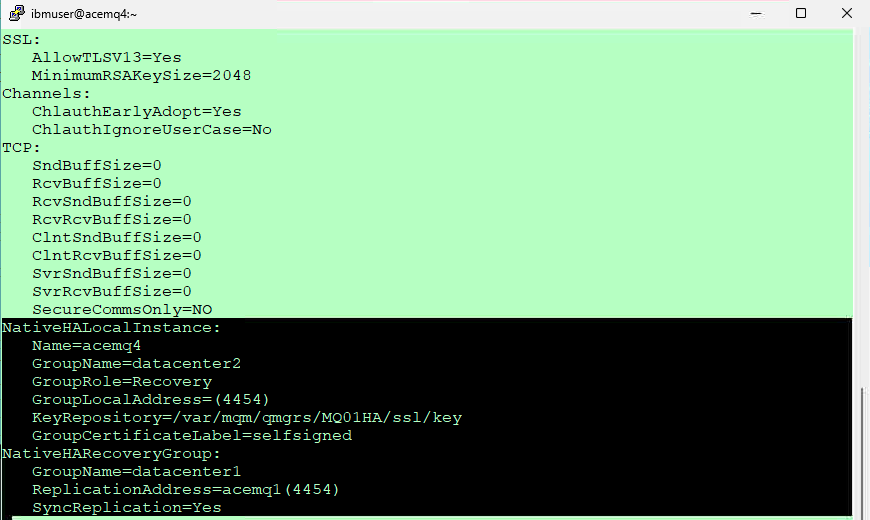
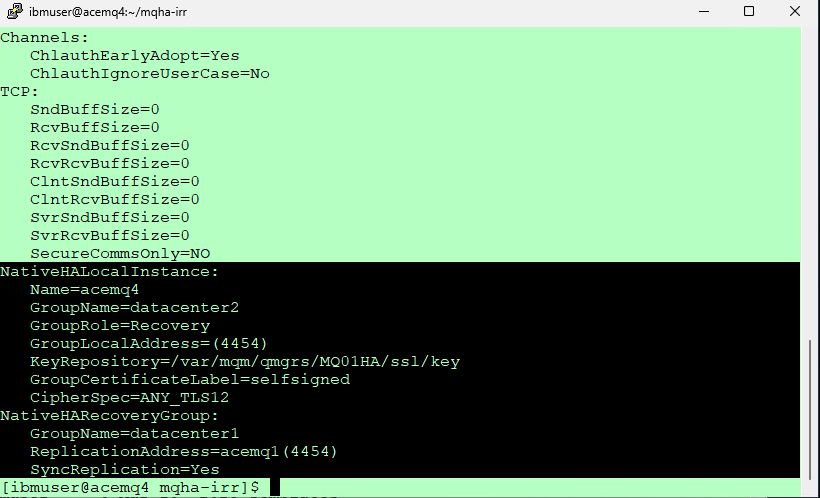
draft 6

Changed region(s): [[0.0, 0.0, 1.0, 1.0], [0.8537, 0.0, 0.8841, 0.0301]]

diff --git a/nativeha-irr-rhel/README.md b/nativeha-irr-rhel/README.md
@@ -95,7 +95,7 @@ Click on the Windows image console to open it.
 
 
 
-### 3c. acemq1 - Create TLS Certificates <a name="tls-setup"></a>
+### 3c. acemq1 - Create TLS Certificates <a name="tls-setup-live"></a>
 
 1. Run the below steps to enable TLS on Queue Manager.  <br>
  
@@ -118,7 +118,7 @@ Click on the Windows image console to open it.
    ![alt text](images/crtmq1a.png)
 
 
-2. acemq1 - Copy all key.* files to acemq4 (Recovery) Virtual Machines using sftp. 
+2. Copy all key.* files to acemq4 (Recovery) Virtual Machines using sftp. 
 
    ```
    sftp ibmuser@acemq4
@@ -133,7 +133,9 @@ Click on the Windows image console to open it.
    ![alt text](images/crtmq1b.png)
 
 
-4. acemq4 - Run the following commands. <br>
+### 3d. acemq4 - Update Certificate Permissions  <a name="tls-setup-recovery"></a>
+
+   Run the following commands. <br>
    ```
    sudo chown -R :mqm /var/mqm/qmgrs/MQ01HA/ssl/key.*
    ```
@@ -144,7 +146,8 @@ Click on the Windows image console to open it.
 
    <br>
 
-### 3c. acemq1 - Update Live qm.ini <a name="update-live-qm-ini"></a>
+
+### 3e. acemq1 - Update Live qm.ini <a name="update-live-qm-ini"></a>
 
 1. On VM acemq1, we will add the TLS parameters, NativeHARecoveryGroup stanza to qm.ini. 
 
@@ -162,15 +165,17 @@ Click on the Windows image console to open it.
    cd ~/mqha-irr
    ```
 
+   Run 1-qm-IRR.sh to enable Native HA IRR on the Live Region. The command will add Native HA configurations to qm.ini file.<br>
+
    ```
-   ./1-qm-ha.sh
+   ./1-qm-IRR.sh
    ```
 
    ![alt text](images/qm1a.png)
 
+   <br>
 
-
-1. When done run the following command on acemq1 instance to verify that the **qm.ini** was updated correctly. 
+1. When done run the following command to verify that the **qm.ini** was updated correctly. 
 
    ```
    cat /var/mqm/qmgrs/MQ01HA/qm.ini
@@ -178,12 +183,14 @@ Click on the Windows image console to open it.
 
    ![alt text](images/qm1b.png)
 
+   <br>
 
 
-### 3d. acemq4 - Update Recovery qm.ini <a name="update-recovery-qm-ini"></a>
+### 3f. acemq4 - Update Recovery qm.ini <a name="update-recovery-qm-ini"></a>
 
-   You can run the following command on **acemq4** to look at the current **qm.ini** file.
+   Run 2-qm-IRR.sh to enable Native HA IRR on the Recovery Region. The command will add Native HA configurations to **qm.ini** file.<br>
 
+   
    ```
    cat /var/mqm/qmgrs/MQ01HA/qm.ini
    ```
@@ -192,9 +199,14 @@ Click on the Windows image console to open it.
    
 1. We will now from the **acemq4** putty session, use vi and add below lines. <br>
 
-```
-./2-qm-IRR.sh
-```
+   ```
+   cd ~/mqha-irr
+   ```
+   
+   ```
+   ./2-qm-IRR.sh
+   ```
+   ![alt text](images/qm2a.png)
 
 
 1. When done run the following command on acemq4 instance to verify that the **qm.ini** was updated correctly. 
@@ -207,14 +219,15 @@ cat /var/mqm/qmgrs/MQ01HA/qm.ini
 
 
 
-### 3d. Start Queue Manager <a name="live-qmgr-start"></a>
 
-1. Run the following commands to restart the queue manager on acemq1,4. <br>
+### 3g. acemq1- Start Queue Manager <a name="live-qmgr-start"></a>
+
+1. Run the following commands to restart the queue manager on acemq1. <br>
 
    ```
    strmqm MQ01HA
    ```
-1. Once QMgr IS running ON acemq1, acemq4 run the following command. 
+1. Once QMgr is running ON acemq1, acemq4 run the following command. 
 
    The Queue Manager should be active in one of Virtual Machines. <br>
 